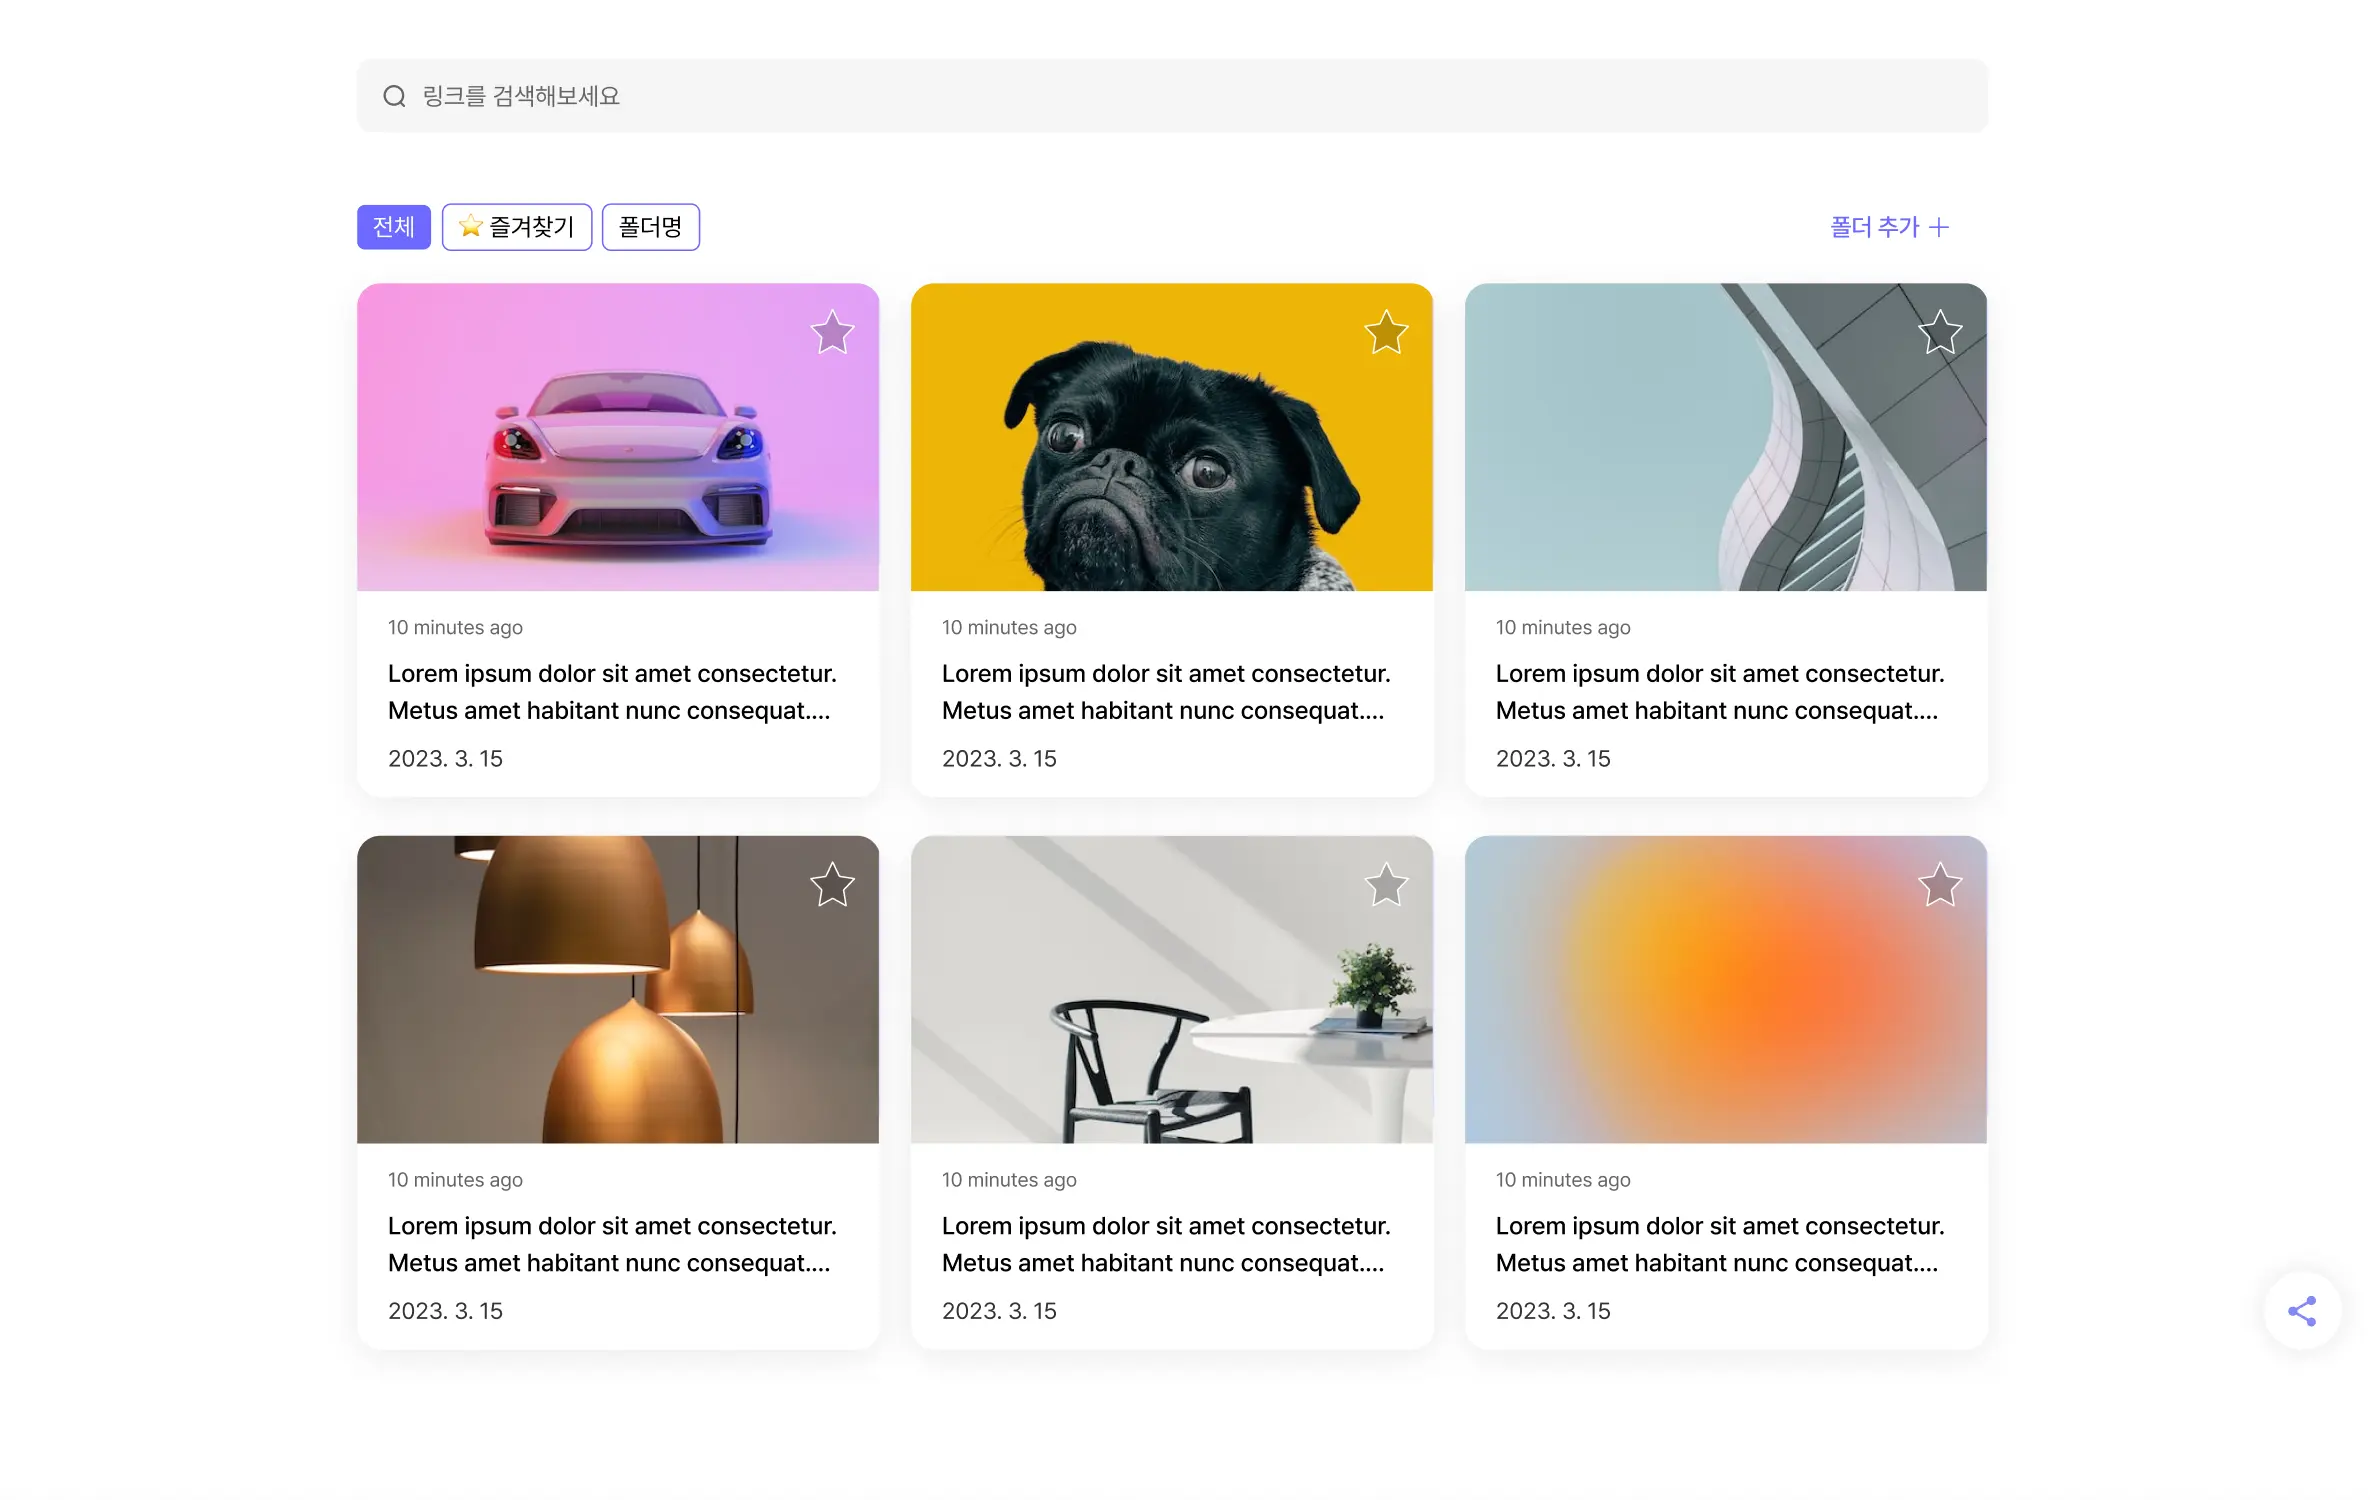
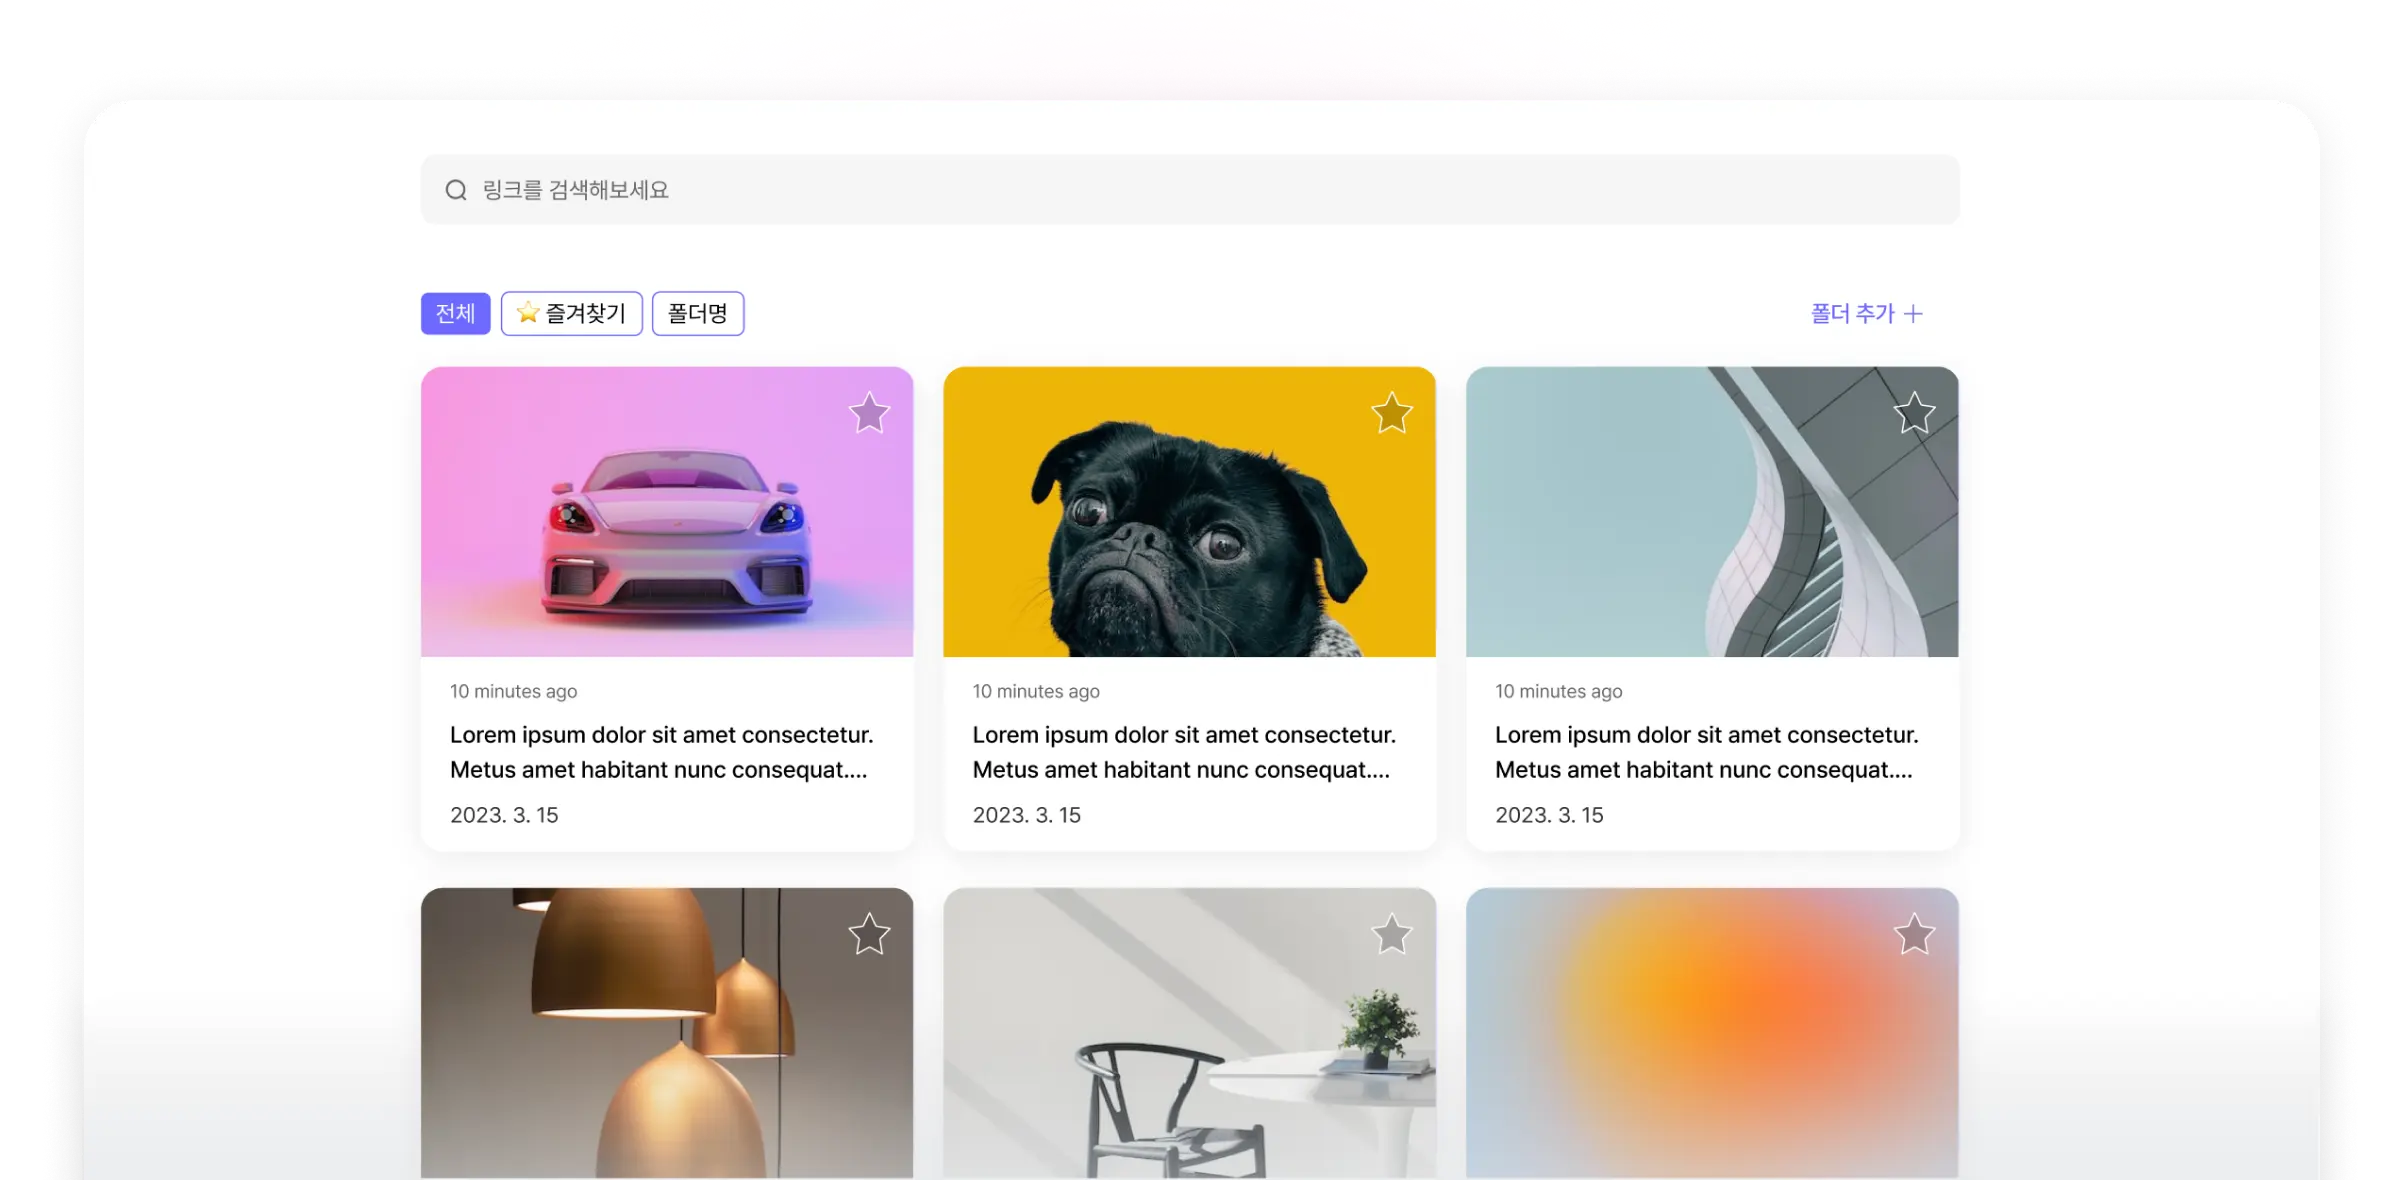
Design: 배너 이미지 변경에 따른 스타일 변화
기존 소스 이미지에 직접 그라디언트 주는 방식에서 피그마내 디자인이 돼 있는 이미지 export 해 적용하는 방법으로 변경
그에 따라 마크업 및 스타일 변화

diff --git a/styles/index.css b/styles/index.css
@@ -33,20 +33,6 @@
   width: 35rem;
 }
 
-.hero__img--gradient::before {
-  position: absolute;
-  top: 0;
-  left: 0;
-  width: 100%;
-  height: 100%;
-  background: linear-gradient(
-    180deg,
-    rgba(196, 196, 196, 0) 63%,
-    rgba(196, 196, 196, 0.7) 100%
-  );
-  content: "";
-}
-
 section:nth-child(even) .contents {
   flex-direction: row-reverse;
 }
@@ -187,24 +173,13 @@ footer {
   }
 
   .hero__img {
-    width: 1200px;
-    height: 590px;
-    padding: 5rem 4.1rem 0;
     overflow: hidden;
   }
 
-  .hero__img--gradient {
-    display: flex;
-    position: relative;
-    justify-content: center;
-    width: 1118px;
-  }
-
   .hero__img--img {
-    width: 1118px;
+    width: 1200px;
+    height: 590px;
     max-block-size: none;
-    border-radius: 25px 25px 0 0;
-    box-shadow: 0 0.4rem 2.5rem 0 rgba(0, 0, 0, 0.08);
   }
 
   .contents {
@@ -258,24 +233,13 @@ footer {
   }
 
   .hero__img {
-    width: 698px;
-    height: 343px;
-    padding: 29.1px 23.8px 0;
     overflow: hidden;
   }
 
-  .hero__img--gradient {
-    display: flex;
-    position: relative;
-    justify-content: center;
-    width: 650px;
-  }
-
   .hero__img--img {
-    width: 650px;
+    width: 698px;
+    height: 343px;
     max-block-size: none;
-    border-radius: 25px 25px 0 0;
-    box-shadow: 0 0.4rem 1.2rem 0 rgba(0, 0, 0, 0.08);
   }
 
   .contents {

diff --git a/index.html b/index.html
@@ -37,12 +37,10 @@
         </h1>
         <a class="cta hero__signup" href="/signup.html">링크 추가하기</a>
         <div class="hero__img">
-          <div class="hero__img--gradient">
-            <img
-              class="hero__img--img"
-              src="/images/landing/main-capture.webp"
-              alt="링크브러리 메인화면 캡쳐" />
-          </div>
+          <img
+            class="hero__img--img"
+            src="/images/landing/main-capture.webp"
+            alt="링크브러리 메인화면 캡쳐" />
         </div>
       </section>
     </header>
